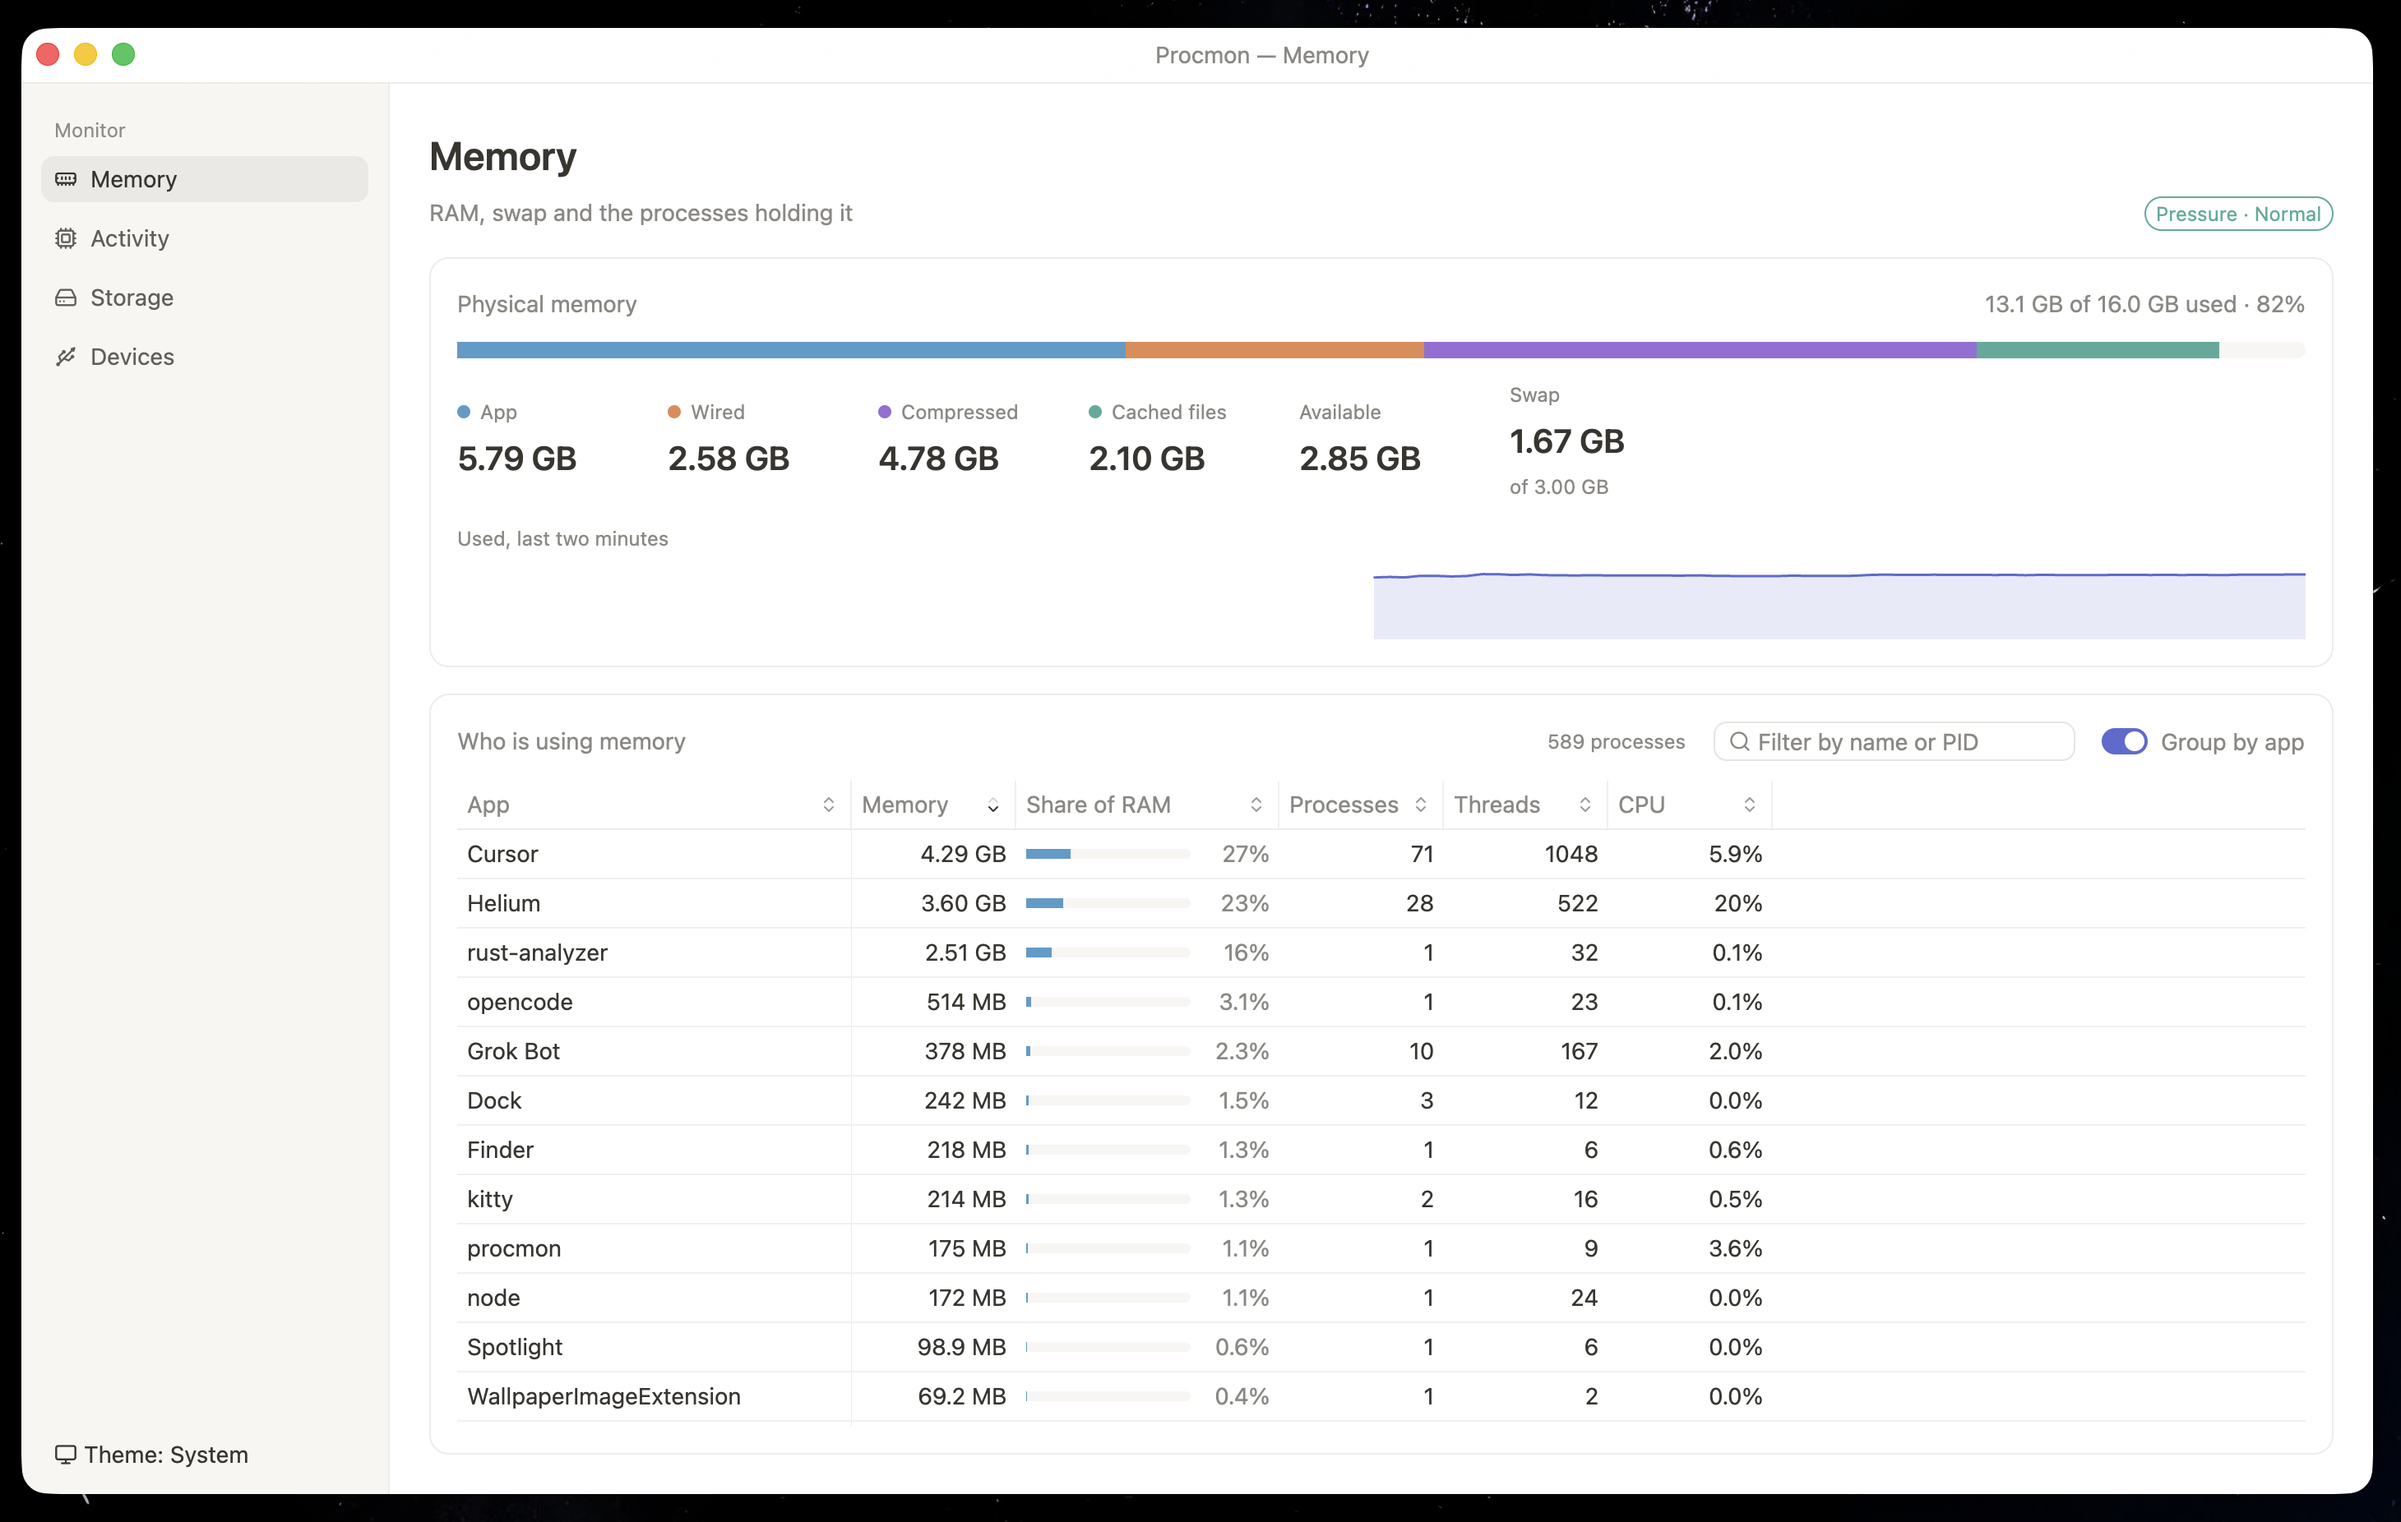
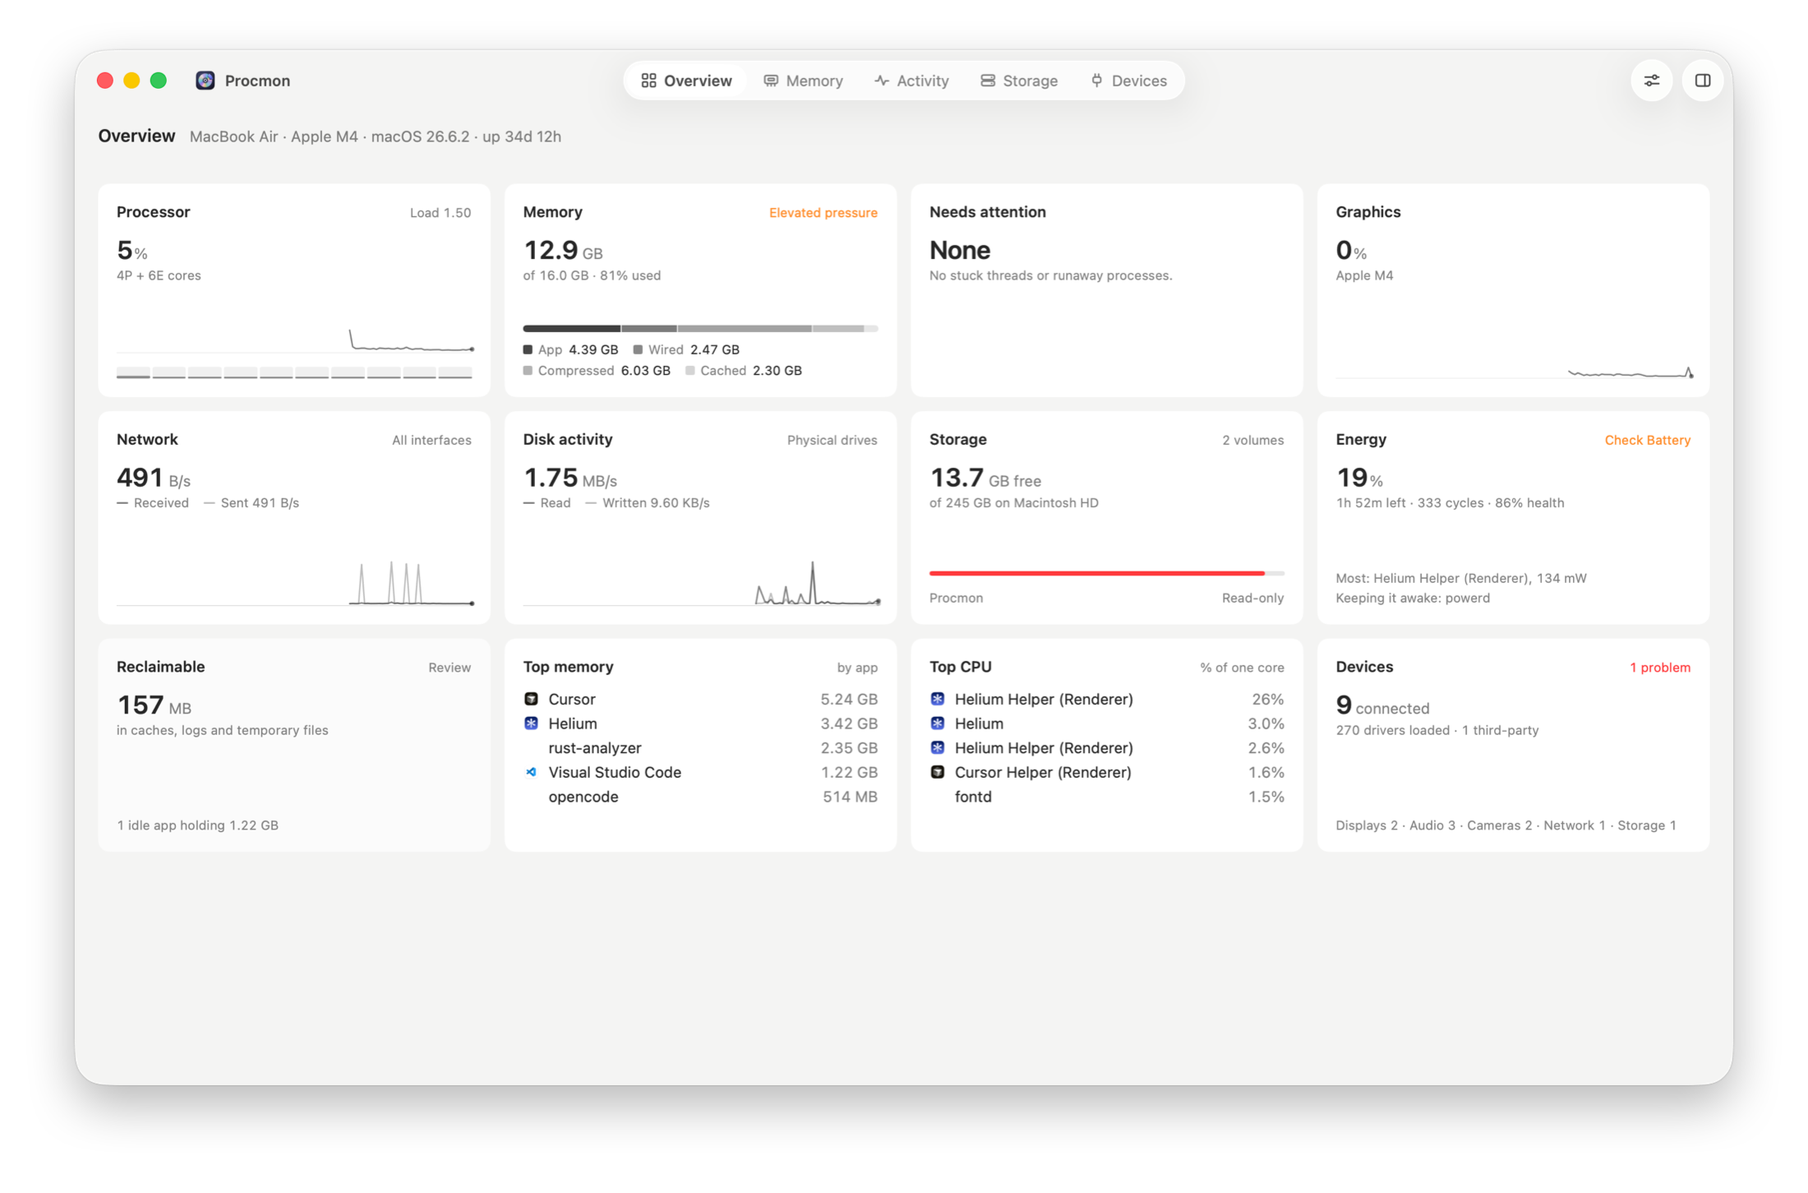
Point the README at the site

diff --git a/README.md b/README.md
@@ -1,6 +1,6 @@
 # Procmon
 
-A small system monitor. On macOS it is a native Swift app of under 2 MB. On Linux and Windows it is written in Rust with [GPUI](https://github.com/zed-industries/zed).
+A small system monitor for your computer.
 
 <p align="center"><img src="docs/image.png" alt="Procmon"></p>
 
@@ -13,11 +13,9 @@ A small system monitor. On macOS it is a native Swift app of under 2 MB. On Linu
 - **Storage:** what is filling your disk, shown as boxes you can click into. Old caches, logs and temporary files can be reviewed and deleted from here.
 - **Devices:** connected hardware, and whether its drivers are running.
 
-Simple rules, not AI, decide what is safe to clean, and Procmon always asks first.
-
 ## Install
 
-Get the latest version from [Releases](https://github.com/Yuvraj-cyborg/procmon/releases).
+Download it from [proc.yuvich.com](https://proc.yuvich.com).
 
 - **macOS 15 or later:** open the `.dmg` and drag Procmon into Applications.
 - **Linux:** unpack the `.tar.xz` and run `./install.sh`, or install the `.deb`.
@@ -34,14 +32,6 @@ make install   # macOS: build Procmon.app and copy it to /Applications
 make dmg       # macOS: build a .dmg in dist/
 make linux     # Linux: build a .tar.xz in dist/
 ```
-
-## Shortcuts on macOS
-
-| Keys | Action |
-| --- | --- |
-| ⌘1 – ⌘5 | Switch page |
-| ⌘F | Search processes |
-| ⌘R | Rescan or refresh |
 
 ## Good to know
 
